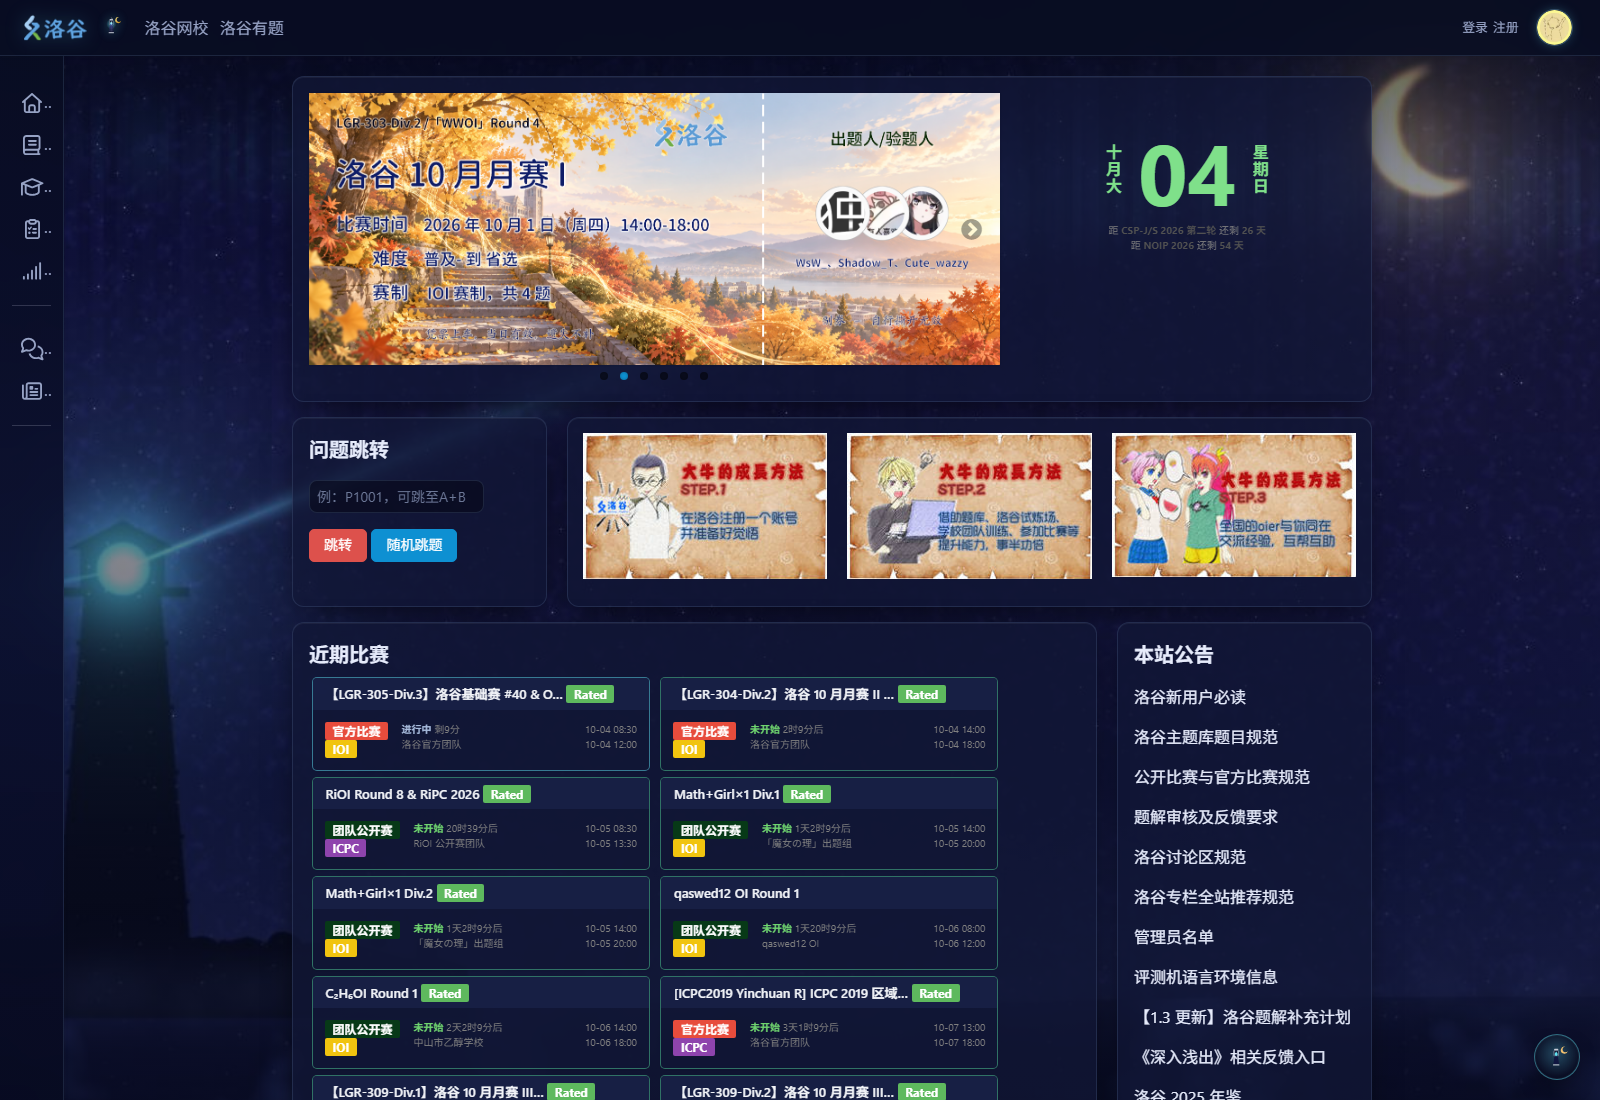
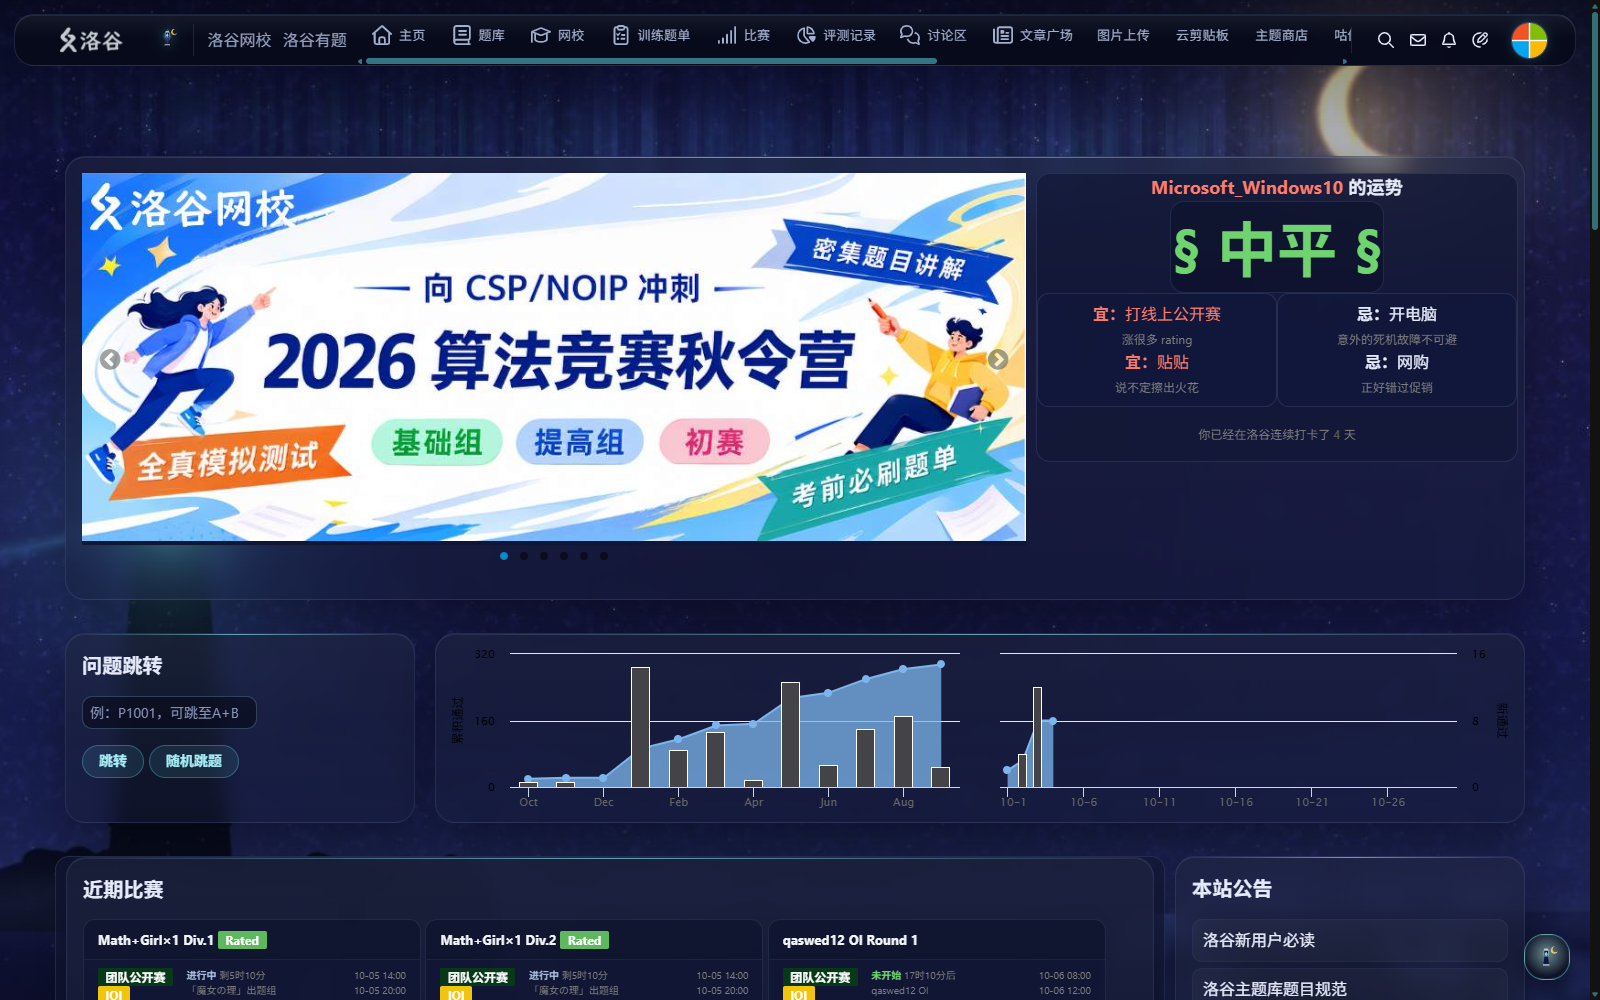
feat: 同步 v1.0.0 新版本（README / LICENSE / dist 构建 / 截图）

diff --git a/dist/flins-extension/content.js b/dist/flins-extension/content.js
@@ -1,7 +1,7 @@
 // ==UserScript==
 // @name         洛谷 · 菲林斯主题「终夜长茔 · 夜巡」
 // @namespace    https://github.com/flins-luogu-theme
-// @version      2026.1005.1408
+// @version      2026.1005.1449
 // @description  为洛谷换上一套《原神》菲林斯主题：深靛蓝夜色 + 提灯冷蓝焰 + 金色新月 + 灯塔剪影。支持自定义背景图片（内置 / 链接 / 本地上传）、深浅两套形态、三种强调色与毛玻璃开关。
 // @author       Flins Theme
 // @license      MIT

diff --git a/dist/flins.user.js b/dist/flins.user.js
@@ -1,7 +1,7 @@
 // ==UserScript==
 // @name         洛谷 · 菲林斯主题「终夜长茔 · 夜巡」
 // @namespace    https://github.com/flins-luogu-theme
-// @version      2026.1005.1408
+// @version      2026.1005.1449
 // @description  为洛谷换上一套《原神》菲林斯主题：深靛蓝夜色 + 提灯冷蓝焰 + 金色新月 + 灯塔剪影。支持自定义背景图片（内置 / 链接 / 本地上传）、深浅两套形态、三种强调色与毛玻璃开关。
 // @author       Flins Theme
 // @license      MIT

diff --git a/README.md b/README.md
@@ -7,13 +7,15 @@
 [![License: MIT](https://img.shields.io/badge/License-MIT-blue.svg)](LICENSE)
 [![Tampermonkey](https://img.shields.io/badge/Tampermonkey-%E4%B8%80%E9%94%AE%E5%AE%89%E8%A3%85-4C6FE8.svg)](https://raw.githubusercontent.com/liumingyangrd/luogu_flins_theme/main/dist/flins.user.js)
 [![Chrome MV3](https://img.shields.io/badge/Chrome%20%2F%20Edge-MV3%20%E6%89%A9%E5%B1%95-60A0C0.svg)](dist/flins-extension)
-[![Version](https://img.shields.io/badge/version-2026.1005.1342-0B0F2B.svg)](https://github.com/liumingyangrd/luogu_flins_theme/releases)
+[![Release](https://img.shields.io/github/v/release/liumingyangrd/luogu_flins_theme?color=0B0F2B&label=version)](https://github.com/liumingyangrd/luogu_flins_theme/releases)
 
 **在真实的 luogu.com.cn 上截图，不是离线预览：**
 
+![首页 · 夜巡（深色）](docs/live-home.png)
+
 ![题目页 · 夜巡（深色）](docs/live-problem.png)
 
-![首页 · 夜巡（深色）](docs/live-home.png)
+![题库页 · 夜巡（深色）](docs/live-problemlist.png)
 
 | 霜晨（浅色） | 设置面板 |
 |---|---|
@@ -45,11 +47,13 @@
 - **底色跟洛谷语义令牌走**：改动同时驱动 `--lcolor--primary`、`--lcolor--link` 等，
   按钮、链接、选中态一起变色，而不是硬盖一层皮。
 - **两套形态**：夜巡（深）/ 霜晨（浅），可跟随系统。
-- **三种强调色**：幽焰青 / 雷紫 / 提灯金，也能自己取色。
+- **四种强调色**：幽焰青 / 雷紫 / 提灯金 / 洛谷蓝，也能自己取色。
 - **背景图片 6 种来源 + 6 个参数**（模糊 / 明暗 / 缩放 / 蒙版浓度 / 对齐 / 平铺）。
 - **白块自愈**：洛谷把不少背景硬编码成 `#fff`，面板里可「扫描并修复」，
   并把修了什么复制到剪贴板；自动模式默认开启。
 - **毛玻璃 / 装饰 / 动效**可单独关闭，尊重系统「减弱动态效果」与洛谷自己的低端机降级。
+- **三处自定义图片**：右下角小灯、左上角誓灯徽记、标题小灯都能换成自己的图
+  （建议正方形、透明背景的 PNG）。
 - **配置可导出**：面板底部「复制配置」输出一段 JSON，方便备份或分享。
 - **带一套真站验证工具**：CDP 注入诊断、白块审计、按坐标查「到底是谁给它上的色」。
 - **零依赖、零遥测**：脚本里没有任何 `fetch` / `XMLHttpRequest` / `sendBeacon` / `WebSocket`
@@ -68,7 +72,7 @@
    或把仓库里的 `dist/flins.user.js` 直接拖进浏览器窗口，按提示安装。
 3. 打开任意洛谷页面。右下角会出现一个**灯形按钮**，点开就是设置面板。
 
-脚本自带「夜巡」背景插画（已内嵌，约 427 KB），装完即用，不需要额外配置。
+脚本自带「夜巡」背景插画（已内嵌，约 428 KB），装完即用，不需要额外配置。
 
 ### B. Chrome / Edge 扩展（不想装油猴）
 
@@ -142,11 +146,14 @@
 除了背景图片，面板里还能调：
 
 - **外观形态** —— 跟随系统 / 夜巡（深）/ 霜晨（浅）
-- **强调色** —— 幽焰青（默认）/ 雷紫 / 提灯金，或自己取色
+- **强调色** —— 幽焰青（默认）/ 雷紫 / 提灯金 / 洛谷蓝，或自己取色
 - **效果开关** —— 毛玻璃、装饰元素（徽记 / 极光扫带 / 页脚铭牌）、动效（灯火呼吸、
   选中脉动；跟随系统「减弱动态效果」）、**自动修补遗漏的白块**
-- **标题小灯** —— 标题左边那个发光的小标记，可在「灯芯 / 新月 / 无」之间换。
-  颜色跟着深浅形态走：深色用亮青（灯火感），浅色自动换成深青，否则白底上是一团看不见的淡色。
+- **标题小灯** —— 标题左边那个发光的小标记，可在「灯芯 / 新月 / 无」之间换，
+  或直接填一张自定义图片。颜色跟着深浅形态走：深色用亮青（灯火感），
+  浅色自动换成深青，否则白底上是一团看不见的淡色。
+- **自定义图片** —— 三处都能换成自己的图：右下角小灯按钮（`fabImage`）、
+  左上角誓灯徽记（`emblemImage`）、标题小灯（`lampImage`）。面板里直接粘图片直链即可。
 - **漏网的白块** —— 一个「扫描并修复」按钮。洛谷把不少背景色硬编码成 `#fff`，其中一些页面
   （私信、犇犇、登录后才出现的翻页条）**未登录根本看不到**，没法提前枚举。这个按钮当场扫出并
   修掉，同时把「修了什么」复制到剪贴板。自动模式默认开着。
@@ -179,12 +186,12 @@
 ```
 luogu-flins-theme/
 ├─ dist/                        ← 要用的东西都在这里（成品）
-│  ├─ flins.user.js             油猴脚本（约 427 KB，样式表 + 背景图 + 徽记全部内嵌）
+│  ├─ flins.user.js             油猴脚本（约 429 KB，样式表 + 背景图 + 徽记全部内嵌）
 │  ├─ flins-extension/          Chrome / Edge 扩展（MV3，免油猴）
 │  │  ├─ manifest.json
 │  │  ├─ content.js             与 flins.user.js 同一份脚本
 │  │  └─ icons/
-│  ├─ flins.css                 等价的纯 CSS（Stylus 用，约 154 KB）
+│  ├─ flins.css                 等价的纯 CSS（Stylus 用，约 156 KB）
 │  ├─ flins-emblem.svg          「誓灯」徽记
 │  └─ assets/                   可直接上传到洛谷图床的完整尺寸背景图
 ├─ src/                         ← 源码（构建输入）
@@ -255,7 +262,7 @@ URL 参数（方便截图和排查）：
 |---|---|
 | `?mode=dark\|light` | 强制深浅形态 |
 | `?view=problem\|home` | 切页面 |
-| `?accent=ghost\|volt\|lamp` | 强调色 |
+| `?accent=ghost\|volt\|lamp\|luogu` | 强调色 |
 | `?bg=auto\|builtin-dark\|builtin-light\|url\|upload\|none` | 背景来源 |
 | `?blur=16&scrim=30&zoom=1.2` | 背景参数 |
 | `?panel=1` | 自动展开设置面板 |
@@ -421,6 +428,8 @@ FAB / 面板是否挂上、以及 `window.onerror` 捕获到的异常列表（**
 ## 授权与免责
 
 - **代码**：MIT，见 [LICENSE](LICENSE)。可自由使用、修改、分发、商用，保留版权声明即可。
+  （`LICENSE` 文件是标准 MIT 全文，**没有**附加条款 —— 这样 GitHub 才能正确识别出 MIT。
+  第三方权利归属统一写在本节，不写进 `LICENSE`。）
 - **背景插画与「誓灯」徽记**：由本仓库的脚本（`tools/make_backgrounds.py`）程序化生成，
   不是从官方素材抠的，可随本项目一起自由使用。
 - **角色相关**：《原神》菲林斯的名字、形象与官方文案版权归**米哈游**所有。
